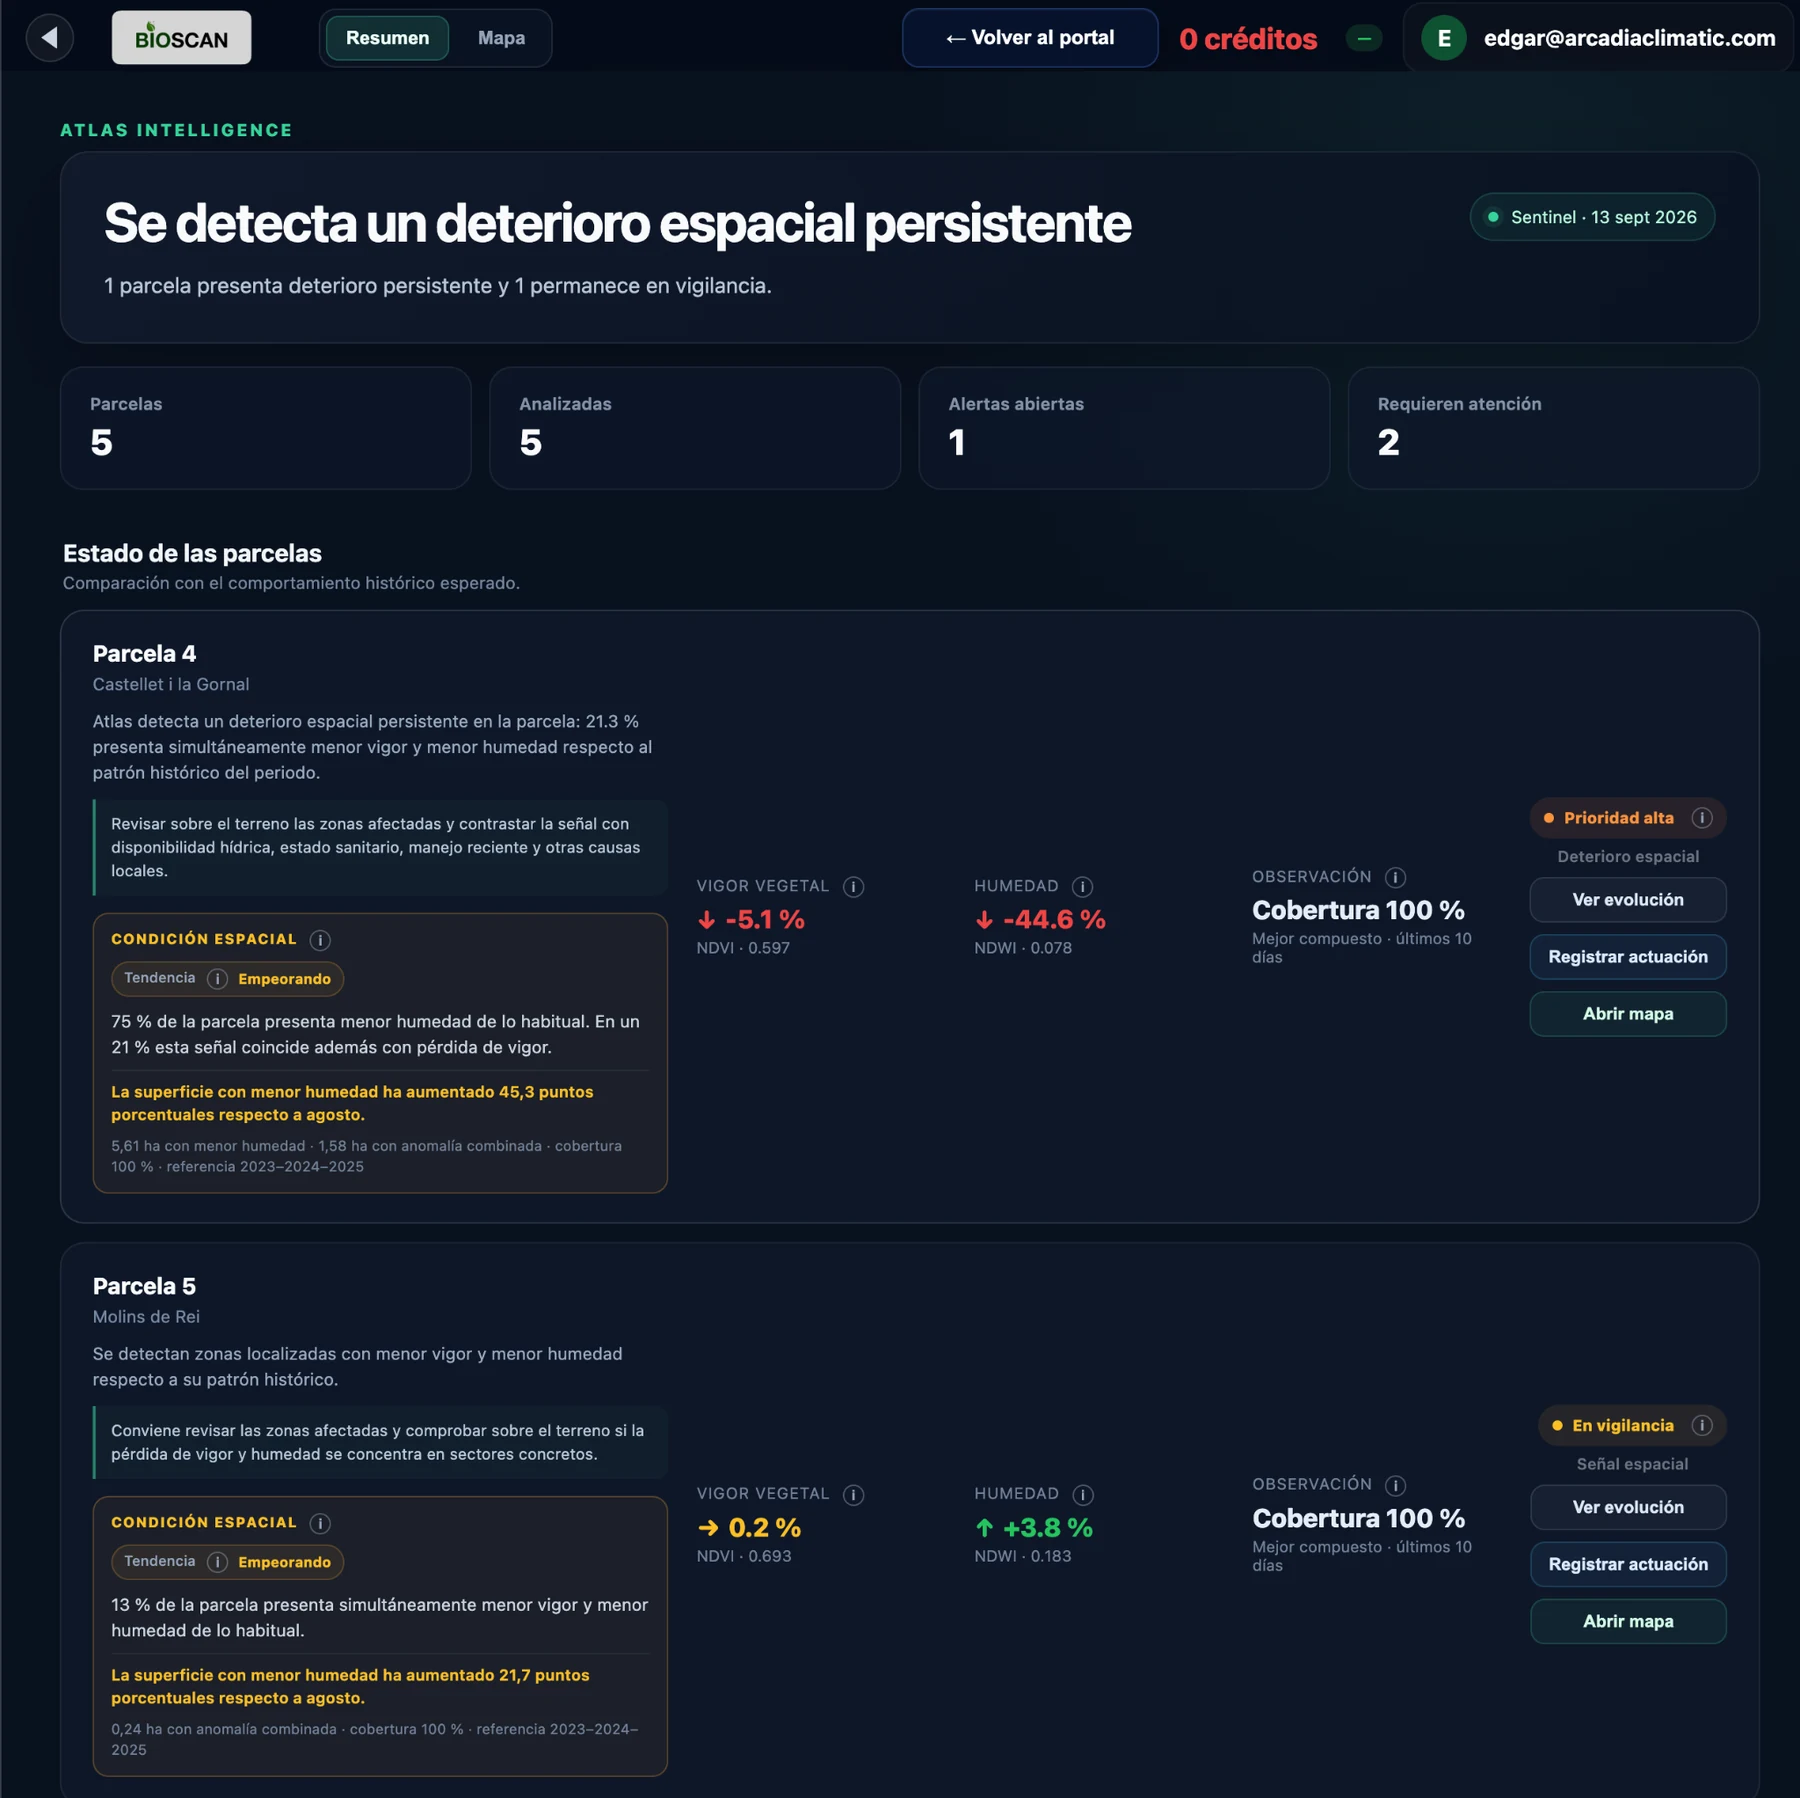
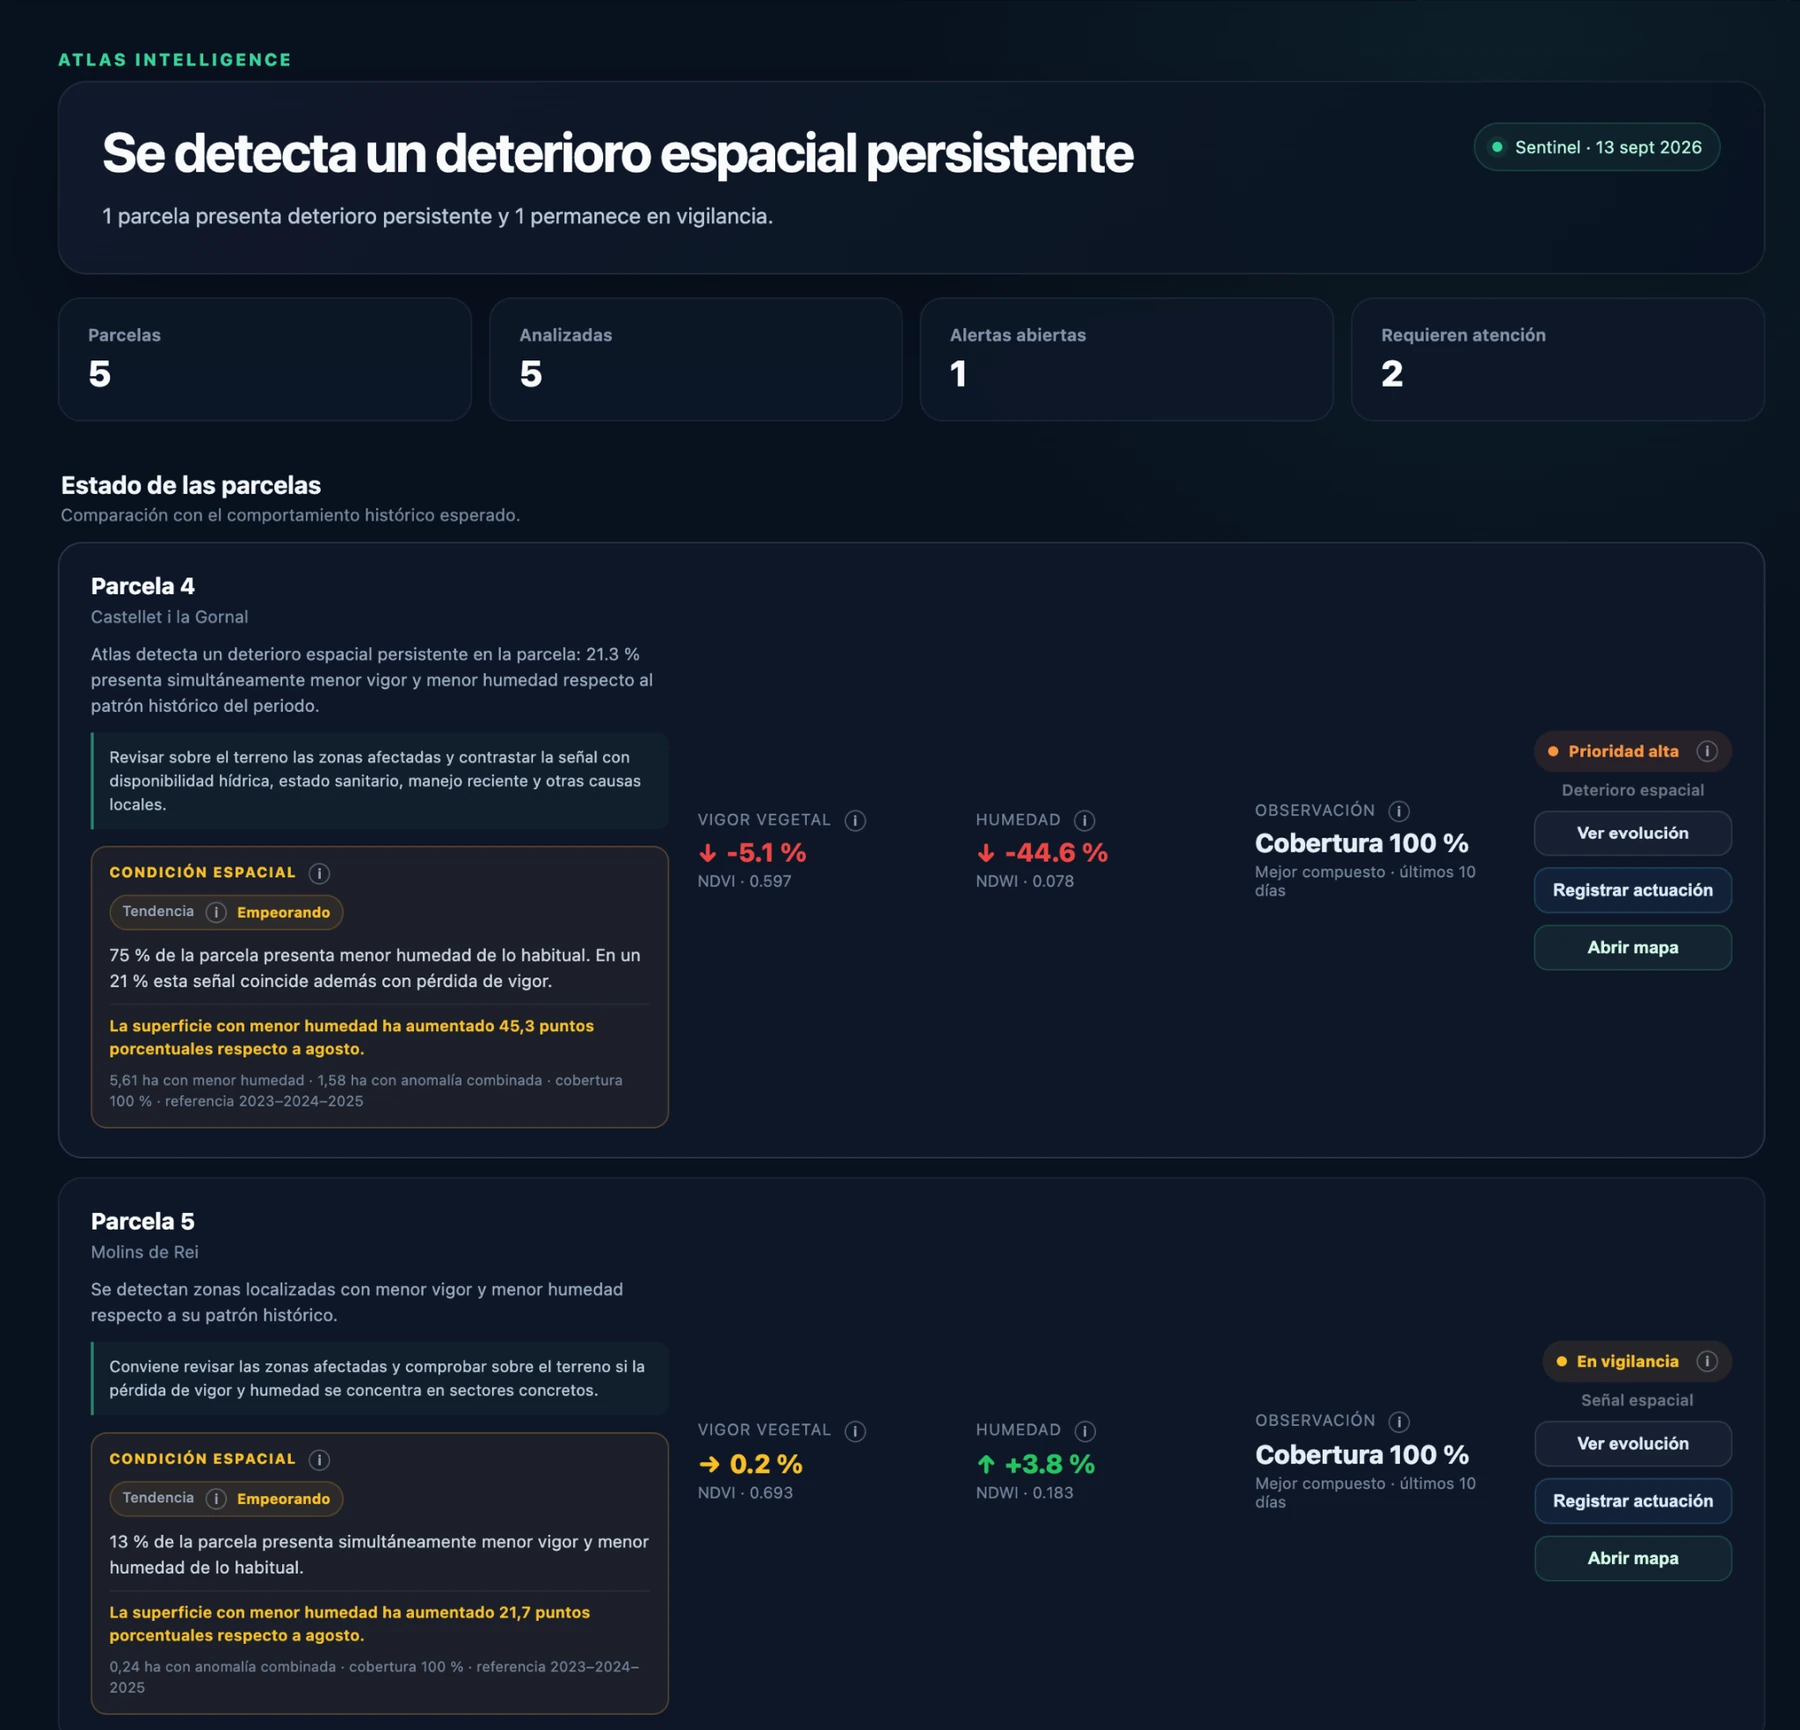
Reestructuration

diff --git a/assets/style.css b/assets/style.css
@@ -577,11 +577,11 @@
 .atlas-screen-points{display:grid;gap:14px;margin-top:28px}.atlas-screen-points div{border-top:1px solid rgba(255,255,255,.09);padding-top:13px}.atlas-screen-points b{display:block;color:#fff;font-size:14px;margin-bottom:4px}.atlas-screen-points span{color:#91a7a4;font-size:13px;line-height:1.45}
 .atlas-product-window{position:relative;margin:0;border-radius:23px;overflow:hidden;border:1px solid rgba(129,222,192,.18);background:#07121c;box-shadow:0 22px 60px rgba(0,0,0,.34)}
 .atlas-window-bar{height:36px;display:flex;align-items:center;gap:7px;padding:0 13px;background:#0b1620;border-bottom:1px solid rgba(255,255,255,.07);color:#758b94;font-size:10px;letter-spacing:.06em}.atlas-window-bar i{width:7px;height:7px;border-radius:50%;background:#31434a}.atlas-window-bar span{margin-left:5px}
-.atlas-product-window img{display:block;width:100%;height:100%;object-fit:cover}.atlas-crop-top{aspect-ratio:1.55/1}.atlas-crop-top img{object-position:center top}
+.atlas-product-window img{display:block;width:100%;height:100%;object-fit:cover}.atlas-crop-top{aspect-ratio:1.06/1}.atlas-crop-top img{object-position:center top;object-fit:contain;background:#07121c}
 .atlas-analytics-band{background:radial-gradient(circle at 80% 15%,rgba(30,132,111,.14),transparent 26%),linear-gradient(180deg,#07131b,#091820 60%,#08141b);padding-top:100px;padding-bottom:100px}
-.atlas-showcase-head-dark{margin-bottom:42px}.atlas-evidence-grid{display:grid;grid-template-columns:1fr 1fr;gap:22px}.atlas-evidence-card{border:1px solid rgba(255,255,255,.08);background:rgba(255,255,255,.035);border-radius:28px;padding:22px;overflow:hidden}.atlas-evidence-copy{padding:8px 8px 22px}.atlas-evidence-copy>span{margin-bottom:10px}.atlas-evidence-copy h3{color:#fff;font-size:26px;letter-spacing:-.03em;margin:0 0 10px}.atlas-evidence-copy p{color:#9eb0b1;font-size:14px;line-height:1.6;margin:0}.atlas-crop-postfire,.atlas-crop-spatial{aspect-ratio:1.36/1}.atlas-crop-postfire img{object-position:center 30%}.atlas-crop-spatial img{object-position:center 45%}
+.atlas-showcase-head-dark{margin-bottom:42px}.atlas-evidence-grid{display:grid;grid-template-columns:1fr 1fr;gap:22px}.atlas-evidence-card{border:1px solid rgba(255,255,255,.08);background:rgba(255,255,255,.035);border-radius:28px;padding:22px;overflow:hidden}.atlas-evidence-copy{padding:8px 8px 22px}.atlas-evidence-copy>span{margin-bottom:10px}.atlas-evidence-copy h3{color:#fff;font-size:26px;letter-spacing:-.03em;margin:0 0 10px}.atlas-evidence-copy p{color:#9eb0b1;font-size:14px;line-height:1.6;margin:0}.atlas-crop-postfire,.atlas-crop-spatial{aspect-ratio:1.08/1}.atlas-crop-postfire img,.atlas-crop-spatial img{object-fit:contain;background:#07121c}.atlas-crop-postfire img{object-position:center center}.atlas-crop-spatial img{object-position:center center}
 .atlas-chart-focus{display:grid;grid-template-columns:.7fr 1.3fr;gap:26px;align-items:center;margin-top:24px;border:1px solid rgba(255,255,255,.08);border-radius:28px;background:linear-gradient(135deg,rgba(27,60,62,.45),rgba(12,25,34,.82));padding:26px}.atlas-chart-copy{padding:12px}.atlas-chart-copy h3{font-size:30px}.atlas-chart-tags{display:flex;flex-wrap:wrap;gap:8px;margin-top:22px}.atlas-chart-tags span{border:1px solid rgba(83,220,183,.22);background:rgba(83,220,183,.06);color:#a7d7c9;padding:7px 10px;border-radius:999px;font-size:11px}.atlas-chart-window{height:320px;margin:0;overflow:hidden;border-radius:20px;border:1px solid rgba(255,255,255,.08);background:#07121c}.atlas-chart-window img{width:100%;height:100%;object-fit:cover;object-position:center 76%;display:block}
-.atlas-priority-section{background:#eef2ec;padding-top:96px;padding-bottom:104px}.atlas-priority-layout{display:grid;grid-template-columns:.72fr 1.28fr;gap:38px;align-items:center}.atlas-priority-copy .intro{max-width:620px}.atlas-priority-list{display:grid;gap:12px;margin-top:30px}.atlas-priority-list div{background:#fff;border:1px solid #dce4dc;border-radius:18px;padding:17px 18px}.atlas-priority-list strong{display:block;color:#14221e;font-size:15px;margin-bottom:5px}.atlas-priority-list span{display:block;color:#61706a;font-size:13px;line-height:1.5}.atlas-priority-window{aspect-ratio:1.16/1;border-color:#d3dfd8;box-shadow:0 25px 65px rgba(12,34,29,.16)}.atlas-priority-window img{object-position:center top}
-@media(max-width:1100px){.atlas-showcase-head,.atlas-screen-feature,.atlas-priority-layout,.atlas-chart-focus{grid-template-columns:1fr}.atlas-screen-copy{max-width:760px}.atlas-crop-top{aspect-ratio:1.65/1}.atlas-priority-window{aspect-ratio:1.35/1}.atlas-chart-window{height:360px}}
-@media(max-width:820px){.atlas-evidence-grid{grid-template-columns:1fr}.atlas-crop-postfire,.atlas-crop-spatial{aspect-ratio:1.55/1}.atlas-chart-window{height:300px}.atlas-showcase-head{gap:22px}.atlas-screen-feature{padding:22px}.atlas-product-showcase,.atlas-analytics-band,.atlas-priority-section{padding-top:74px;padding-bottom:78px}}
+.atlas-priority-section{background:#eef2ec;padding-top:96px;padding-bottom:104px}.atlas-priority-layout{display:grid;grid-template-columns:.72fr 1.28fr;gap:38px;align-items:center}.atlas-priority-copy .intro{max-width:620px}.atlas-priority-list{display:grid;gap:12px;margin-top:30px}.atlas-priority-list div{background:#fff;border:1px solid #dce4dc;border-radius:18px;padding:17px 18px}.atlas-priority-list strong{display:block;color:#14221e;font-size:15px;margin-bottom:5px}.atlas-priority-list span{display:block;color:#61706a;font-size:13px;line-height:1.5}.atlas-priority-window{aspect-ratio:1.05/1;border-color:#d3dfd8;box-shadow:0 25px 65px rgba(12,34,29,.16)}.atlas-priority-window img{object-position:center top;object-fit:contain;background:#07121c}
+@media(max-width:1100px){.atlas-showcase-head,.atlas-screen-feature,.atlas-priority-layout,.atlas-chart-focus{grid-template-columns:1fr}.atlas-screen-copy{max-width:760px}.atlas-crop-top{aspect-ratio:1.08/1}.atlas-priority-window{aspect-ratio:1.08/1}.atlas-chart-window{height:360px}}
+@media(max-width:820px){.atlas-evidence-grid{grid-template-columns:1fr}.atlas-crop-postfire,.atlas-crop-spatial{aspect-ratio:1.08/1}.atlas-chart-window{height:300px}.atlas-showcase-head{gap:22px}.atlas-screen-feature{padding:22px}.atlas-product-showcase,.atlas-analytics-band,.atlas-priority-section{padding-top:74px;padding-bottom:78px}}
 @media(max-width:620px){.atlas-screen-copy h3,.atlas-chart-copy h3{font-size:27px}.atlas-screen-feature,.atlas-evidence-card,.atlas-chart-focus{border-radius:22px}.atlas-crop-top,.atlas-crop-postfire,.atlas-crop-spatial,.atlas-priority-window{aspect-ratio:1.05/1}.atlas-chart-window{height:250px}.atlas-product-window{border-radius:16px}.atlas-window-bar span{white-space:nowrap;overflow:hidden;text-overflow:ellipsis}}

diff --git a/atlas/index.html b/atlas/index.html
@@ -86,7 +86,7 @@
       <div class="wrap">
         <div class="kicker">01 · Inteligencia territorial</div>
         <h2 class="title">Más que visualizar datos: compararlos, interpretarlos y priorizarlos.</h2>
-        <p class="intro">La plataforma trabaja con indicadores de lectura territorial y ambiental que sintetizan múltiples señales sin exponer al usuario a la complejidad del cálculo interno.</p>
+        <p class="intro">La plataforma trabaja con indicadores de lectura territorial y ambiental que convierten señales complejas en una lectura clara, visual y accionable para perfiles técnicos y operativos.</p>
         <div class="atlas-metric-grid">
           <div class="atlas-metric-card"><span class="atlas-code">IVE</span><h3>Estado de la vegetación</h3><p>Lectura del comportamiento y la condición vegetal para detectar diferencias, tendencias y señales relevantes.</p></div>
           <div class="atlas-metric-card"><span class="atlas-code">ICA</span><h3>Condición integrada</h3><p>Una visión sintética que ayuda a contextualizar el estado territorial y comparar zonas con criterios homogéneos.</p></div>
@@ -102,14 +102,14 @@
             <div class="kicker">Atlas Intelligence · visión operativa</div>
             <h2 class="title" id="atlas-intelligence-title">De una señal territorial a una prioridad clara.</h2>
           </div>
-          <p class="intro">La capa de inteligencia de Atlas BioScan transforma la observación continua en una lectura accionable: identifica qué parcelas requieren atención, explica por qué y mantiene la trazabilidad de cada decisión.</p>
+          <p class="intro">La capa de inteligencia de Atlas BioScan transforma la observación continua en una lectura accionable: identifica qué parcelas requieren atención, explica el contexto de cada alerta y conserva la trazabilidad de la decisión operativa.</p>
         </div>
 
         <div class="atlas-screen-feature atlas-screen-feature-main">
           <div class="atlas-screen-copy">
             <span class="atlas-screen-eyebrow">Panel de atención inmediata</span>
             <h3>Priorizar primero lo que realmente necesita intervención.</h3>
-            <p>Alertas, variaciones de vigor y humedad, calidad de observación y estado operativo se reúnen en una misma vista para reducir tiempo de análisis y acelerar la respuesta.</p>
+            <p>Alertas, variaciones de vigor y humedad, calidad de observación y estado operativo se reúnen en una misma vista para reducir el tiempo de análisis y acelerar la respuesta sobre el terreno.</p>
             <div class="atlas-screen-points">
               <div><b>Detección automática</b><span>Incidencias críticas y parcelas en vigilancia.</span></div>
               <div><b>Contexto en una vista</b><span>Indicadores clave junto a la situación de cada parcela.</span></div>
@@ -182,7 +182,7 @@
             <div class="atlas-evidence-copy">
               <span>Condición espacial</span>
               <h3>Detectar persistencia, extensión y tendencia.</h3>
-              <p>La lectura multivariable combina vigor, humedad y anomalía espacial para visualizar cuánto territorio se desvía de su patrón histórico y cómo cambia mes a mes.</p>
+              <p>La lectura multivariable combina vigor, humedad y anomalía espacial para visualizar cuánto territorio se desvía de su patrón histórico y cómo cambia mes a mes, sin saturar la lectura con información innecesaria.</p>
             </div>
             <figure class="atlas-product-window atlas-crop-spatial">
               <div class="atlas-window-bar"><i></i><i></i><i></i><span>Analítica multitemporal</span></div>
@@ -191,17 +191,6 @@
           </article>
         </div>
 
-        <div class="atlas-chart-focus">
-          <div class="atlas-chart-copy">
-            <span class="atlas-screen-eyebrow">Lectura multimensual</span>
-            <h3>El gráfico no es decoración: es evidencia para decidir.</h3>
-            <p>La evolución de la superficie con menor humedad, pérdida de vigor y anomalía combinada permite justificar prioridades con una referencia histórica objetiva y fácilmente comunicable.</p>
-            <div class="atlas-chart-tags"><span>NDVI / vigor</span><span>NDWI / humedad</span><span>Anomalía combinada</span><span>Tendencia espacial</span></div>
-          </div>
-          <figure class="atlas-chart-window">
-            <img src="../assets/atlas-spatial-evolution.webp" alt="Gráfico multimensual de condición espacial en Atlas BioScan" loading="lazy">
-          </figure>
-        </div>
       </div>
     </section>
 
@@ -235,11 +224,11 @@
           <div class="atlas-priority-copy">
             <div class="kicker">Priorización territorial</div>
             <h2 class="title" id="atlas-priority-title">Decisiones operativas respaldadas por evidencia visual.</h2>
-            <p class="intro">Cada prioridad conserva el contexto que la explica: evolución temporal, condición espacial, cobertura observacional y comparación con el comportamiento histórico esperado.</p>
+            <p class="intro">Cada prioridad conserva el contexto que la explica: superficie afectada, tendencia, cobertura observacional y comparación con el comportamiento histórico esperado.</p>
             <div class="atlas-priority-list">
-              <div><strong>Series temporales</strong><span>NDVI y NDWI para entender cómo evoluciona cada parcela.</span></div>
-              <div><strong>Condición espacial</strong><span>Superficie afectada y tendencia multimensual para valorar persistencia.</span></div>
-              <div><strong>Jerarquización operativa</strong><span>Prioridad alta, vigilancia o estado normal con acceso inmediato al seguimiento.</span></div>
+              <div><strong>Series temporales</strong><span>Lectura histórica para entender la evolución de cada parcela sin perder el contexto operativo.</span></div>
+              <div><strong>Condición espacial</strong><span>Extensión y tendencia multimensual para valorar persistencia y severidad.</span></div>
+              <div><strong>Jerarquización operativa</strong><span>Prioridad alta, vigilancia o estado normal con acceso directo al seguimiento y al mapa.</span></div>
             </div>
           </div>
           <figure class="atlas-product-window atlas-priority-window">
